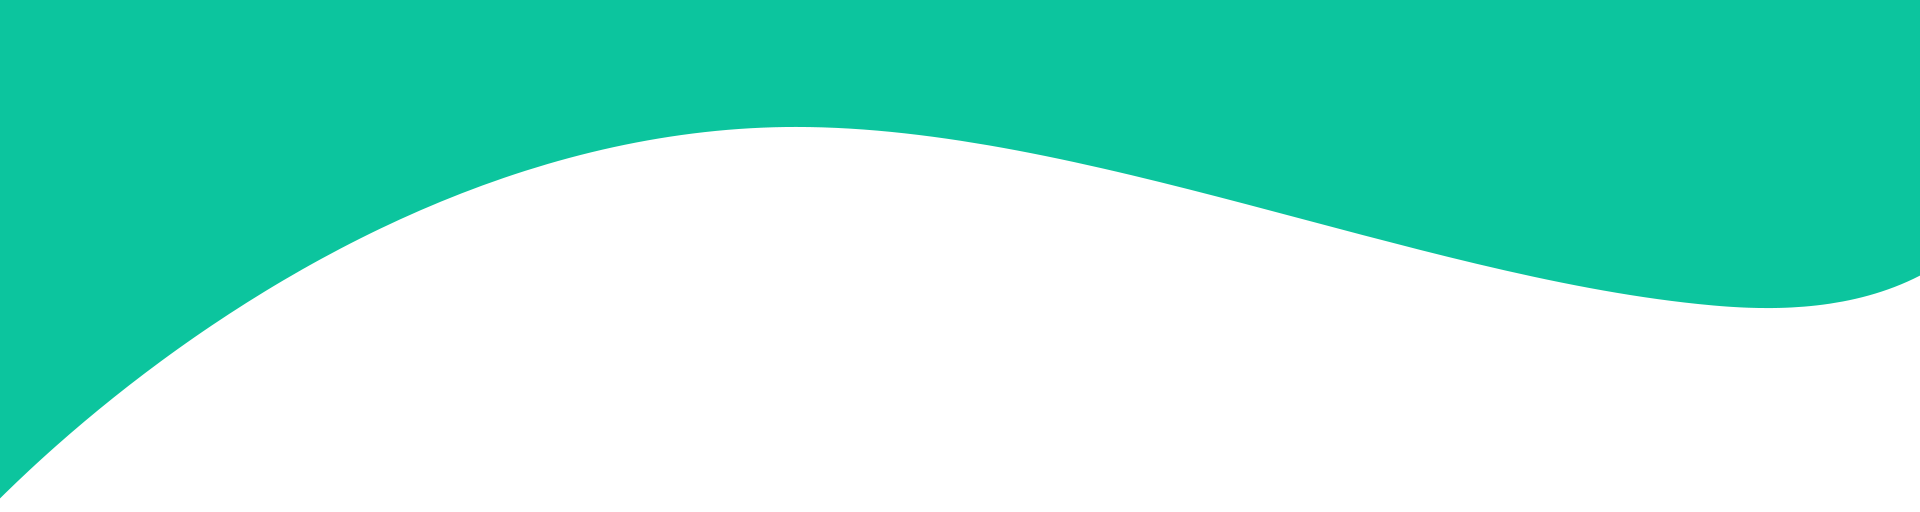
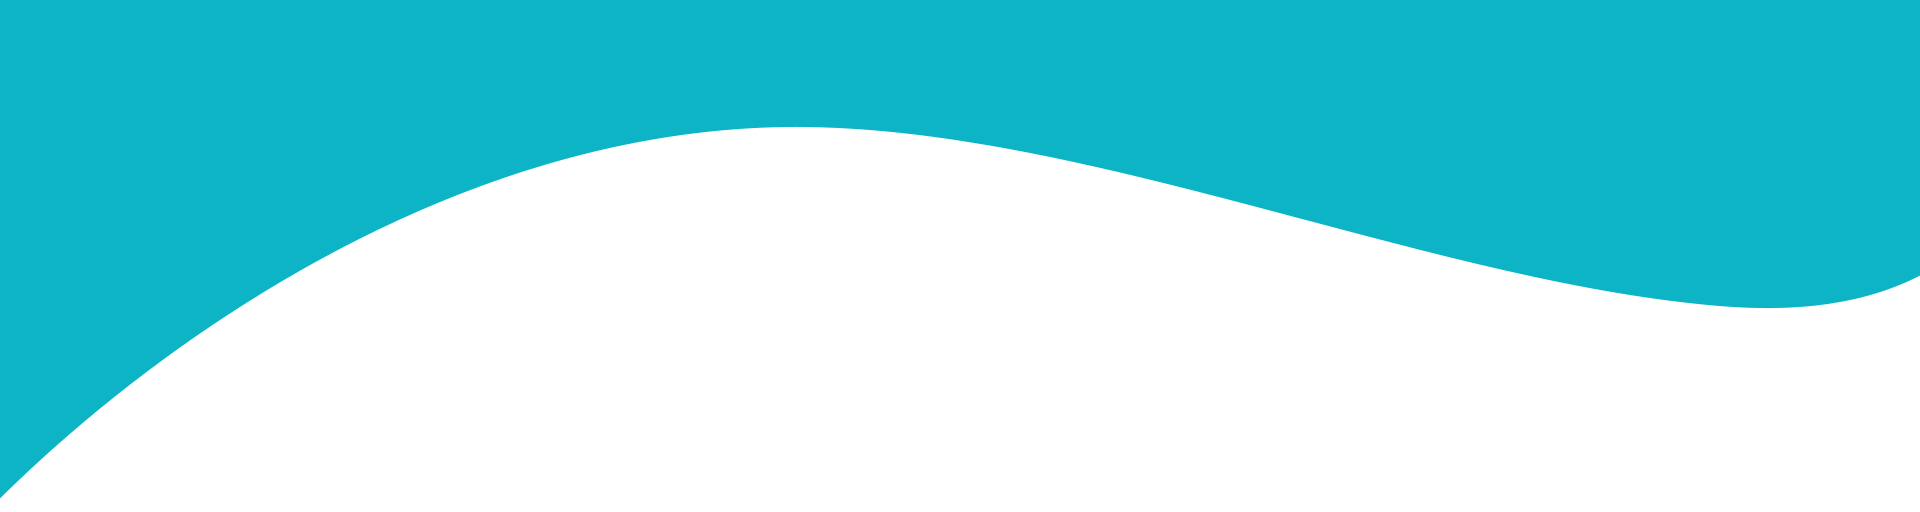
Style update

diff --git a/index.html b/index.html
@@ -25,19 +25,14 @@
 <body>
     <div id="app">
         <div class="contacts">
-            <ul>
-                <li><i class="fa-brands fa-github"></i></li>
-                <li><i class="fa-brands fa-instagram"></i></li>
-                <li><i class="fa-solid fa-envelope"></i></li>
-            </ul>
+            <a href="https://github.com/eugen-bondarev" target="_blank" class="button"><i class="fa-brands fa-github"></i></a>
+            <a class="button"><i class="fa-brands fa-instagram"></i></a>
+            <a href="mailto:eug.bondarev@gmail.com" class="button"><i class="fa-solid fa-envelope"></i></a>
         </div>
         <header class="flex center container">
             <div>
             </div>
             <div>
-                <!-- <button class="link">
-                    Sprache
-                </button> -->
                 <button class="button">
                     Kontaktieren
                 </button>

diff --git a/style/main.css b/style/main.css
@@ -29,7 +29,7 @@ body::before {
   left: 0;
   width: 100%;
   height: 30px;
-  background-color: #0CC59E;
+  background-color: #0cb4c5;
 }
 
 body::after {
@@ -198,14 +198,40 @@ header .button, header .link {
 }
 
 .subtitle {
-  color: #afafaf;
+  color: #a3a3a3;
   font-weight: 300;
 }
 
 .contacts {
   position: fixed;
-  left: 0px;
+  display: -webkit-box;
+  display: -ms-flexbox;
+  display: flex;
+  -webkit-box-orient: vertical;
+  -webkit-box-direction: normal;
+      -ms-flex-direction: column;
+          flex-direction: column;
+  left: 20px;
   bottom: 10px;
+}
+
+.contacts .button {
+  margin: 10px 0px;
+  -webkit-transition: 0.3s;
+  transition: 0.3s;
+  padding: 20px;
+}
+
+.contacts .button:hover {
+  background: #9c9c9c;
+}
+
+.contacts .button:hover i {
+  color: white;
+}
+
+.contacts .button i {
+  font-size: 18px;
 }
 
 #name {

diff --git a/style/main.sass b/style/main.sass
@@ -1,7 +1,7 @@
 $container-width: 1000px
 
 $primary-font-color: #033B3D
-$secondary-font-color: rgb(175, 175, 175)
+$secondary-font-color: rgb(163, 163, 163)
 
 $secondary-bg-color: #9c9c9c
 
@@ -33,7 +33,7 @@ body
         left: 0
         width: 100% 
         height: $upper-height
-        background-color: #0CC59E
+        background-color: #0cb4c5
 
     &::after 
         z-index: -1
@@ -156,8 +156,22 @@ header
 
 .contacts 
     position: fixed
-    left: 0px
+    display: flex
+    flex-direction: column
+    left: 20px
     bottom: 10px
+    .button
+        margin: 10px 0px
+        transition: 0.3s
+        padding: 20px
+
+        &:hover
+            background: $secondary-bg-color
+            i
+                color: white
+
+        i
+            font-size: 18px
 
 #name 
     position: relative
